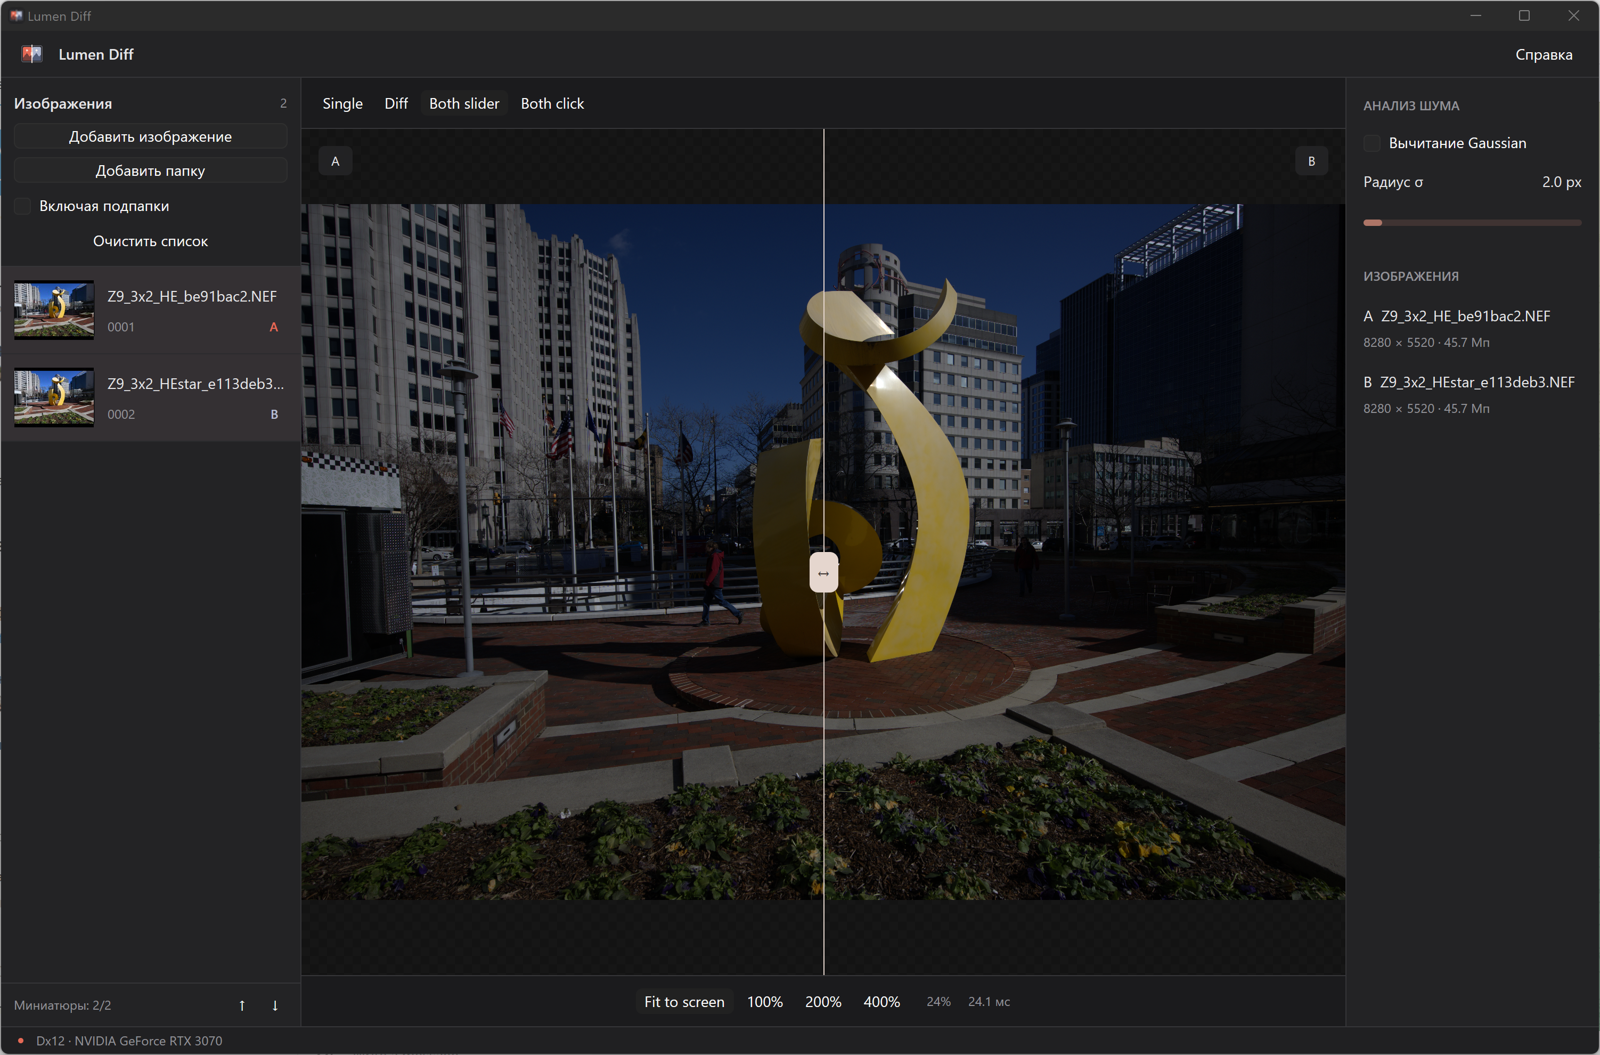
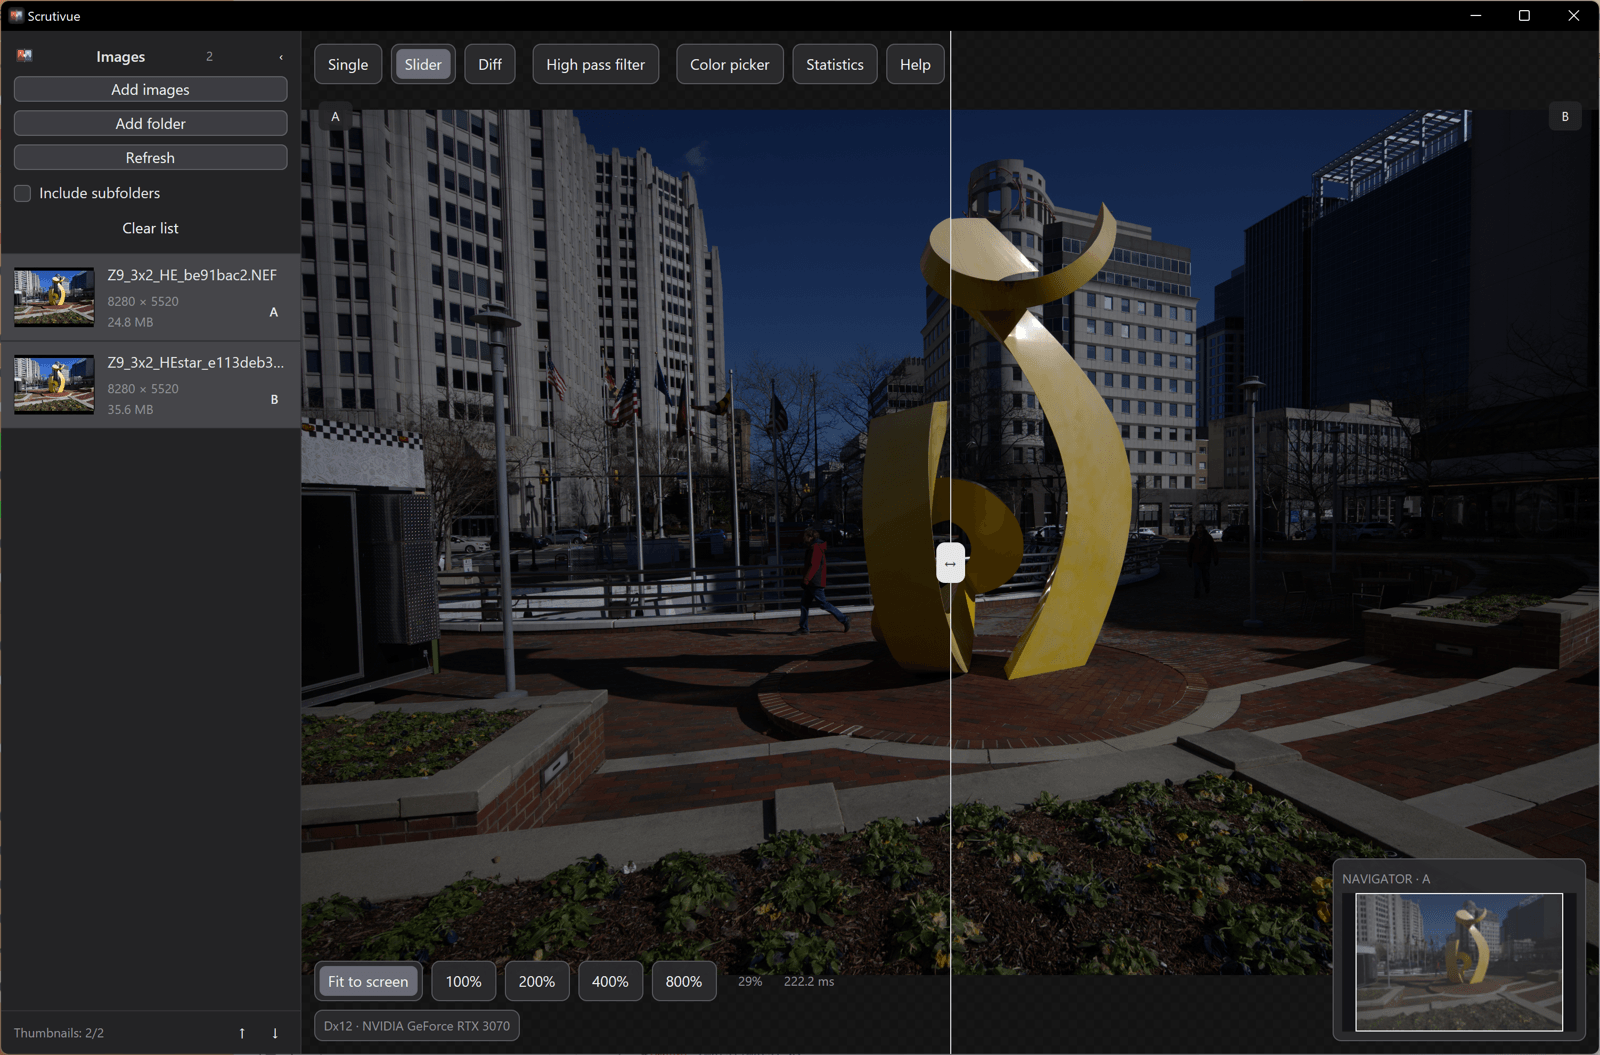
Refresh README screenshots and make Windows builds manual-only

diff --git a/README.md b/README.md
@@ -4,14 +4,13 @@
 
 A desktop application for comparing photographs and RAW images. **Rust · GPUI / GPUI Kit · DX12 through wgpu.** Nikon HE/HE* decoding uses Redlamp's LibRaw fork.
 
-<details>
-<summary>Historical UI screenshot (before the Scrutivue rename)</summary>
+![Scrutivue with synchronized Slider comparison, image library and navigator](docs/images/ui.png)
 
-![Earlier interface](docs/images/ui.png)
+*Synchronized Slider comparison with the image library and navigator.*
 
-*Screenshot of an earlier Lumen Diff build, before the Scrutivue rename. The current version uses neutral grey floating controls, a navigator and single-file startup. A fresh screenshot has not been captured in the current desktop environment.*
+![Scrutivue Diff mode with the color picker, original-pixel loupe and image statistics](docs/images/diff-ui.png)
 
-</details>
+*Diff mode with the 1600% color-picker loupe and image statistics.*
 
 - Add files and folders, optionally including subfolders. The virtualized library shows dimensions, readable file sizes (for example, 7.1 MB or 500 KB), background thumbnails and reorderable rows. **Refresh** synchronizes added folders.
 - Starts in **Single** with only the first image selected. A normal click selects one image; **Ctrl+click** selects/toggles comparison B. **Slider** and **Diff** are disabled without B; removing B temporarily shows Single and adding it again restores the chosen comparison mode. Context menus offer **Open file**, **Open with**, **Open containing folder**, **Copy file name**, **Copy full path**, and explicit A/B assignment.
@@ -42,7 +41,7 @@ The Windows binary is `target/release/scrutivue.exe`; **keep the matching `onnxr
 
 ## Windows builds on GitHub
 
-[Windows workflow](https://github.com/AlexeyKupershtokh/Scrutivue/actions/workflows/windows.yml) runs on pushes, pull requests and manual dispatch. It prepares SHA-256-pinned LibRaw/ONNX Runtime, checks formatting, runs native computation/cache tests, builds Windows x64 release, and checks the embedded LPIPS through the CLI without a GUI or Python ML dependencies.
+[Windows workflow](https://github.com/AlexeyKupershtokh/Scrutivue/actions/workflows/windows.yml) runs only when started manually: open **Actions → Windows → Run workflow**. Pushes and pull requests do not trigger builds. It prepares SHA-256-pinned LibRaw/ONNX Runtime, checks formatting, runs native computation/cache tests, builds Windows x64 release, and checks the embedded LPIPS through the CLI without a GUI or Python ML dependencies.
 
 Download **Scrutivue-windows-x64** from a successful run's Artifacts section, then extract the included ZIP completely. It contains the application, matching ONNX Runtime, build pins and dependency notices. These are unsigned builds, not an installer; Windows SmartScreen may warn. Native GPU/UI tests are run separately on a real desktop, not claimed from the headless CI job.
 
@@ -50,4 +49,4 @@ Comparison is fully offline, with no startup downloads. Formulas, analysis sizes
 
 Details, limitations and validation commands: [manual](docs/manual.md), [measurements](docs/validation.md), [DX12 decision](docs/compute-decision.md). Initial RAW decoding takes seconds in the background; warm GPU measurements do not guarantee input-to-screen latency ≤100 ms on every machine.
 
-MIT; LibRaw is used under CDDL-1.0. Notices: [LICENSES](LICENSES/README.md). The screenshot shows CC0 Nikon Z9 HE/HE* images from raw.pixls.us, without an external UI mockup.
+MIT; LibRaw is used under CDDL-1.0. Notices: [LICENSES](LICENSES/README.md). The Slider overview uses CC0 Nikon Z9 HE/HE* samples from raw.pixls.us. The Diff, color picker and statistics screenshot was provided by the project author. Both show the native application, not an external UI mockup.
